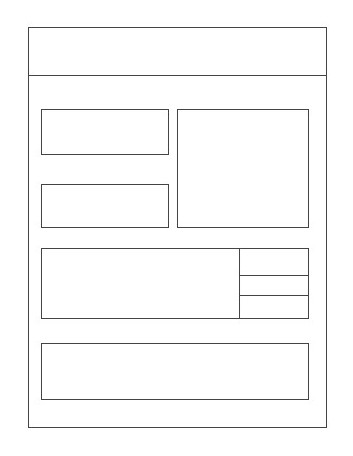
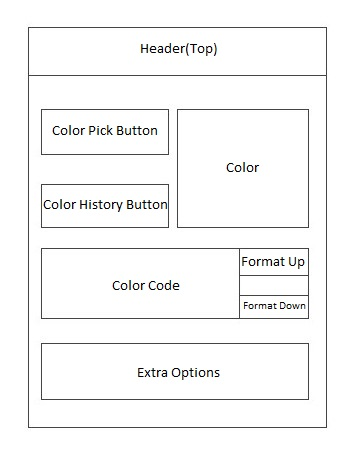
add new wireframe with name palet

diff --git a/README.md b/README.md
@@ -11,4 +11,4 @@ X Color Picker is just a tool for everyone who works with color. Pick eye-catchy
 
 <hr>
 
-#### 🖥 Project Under construction please give your support and contribution on it.
+#### 📑 Project Under construction please give your support and contribution on it.
